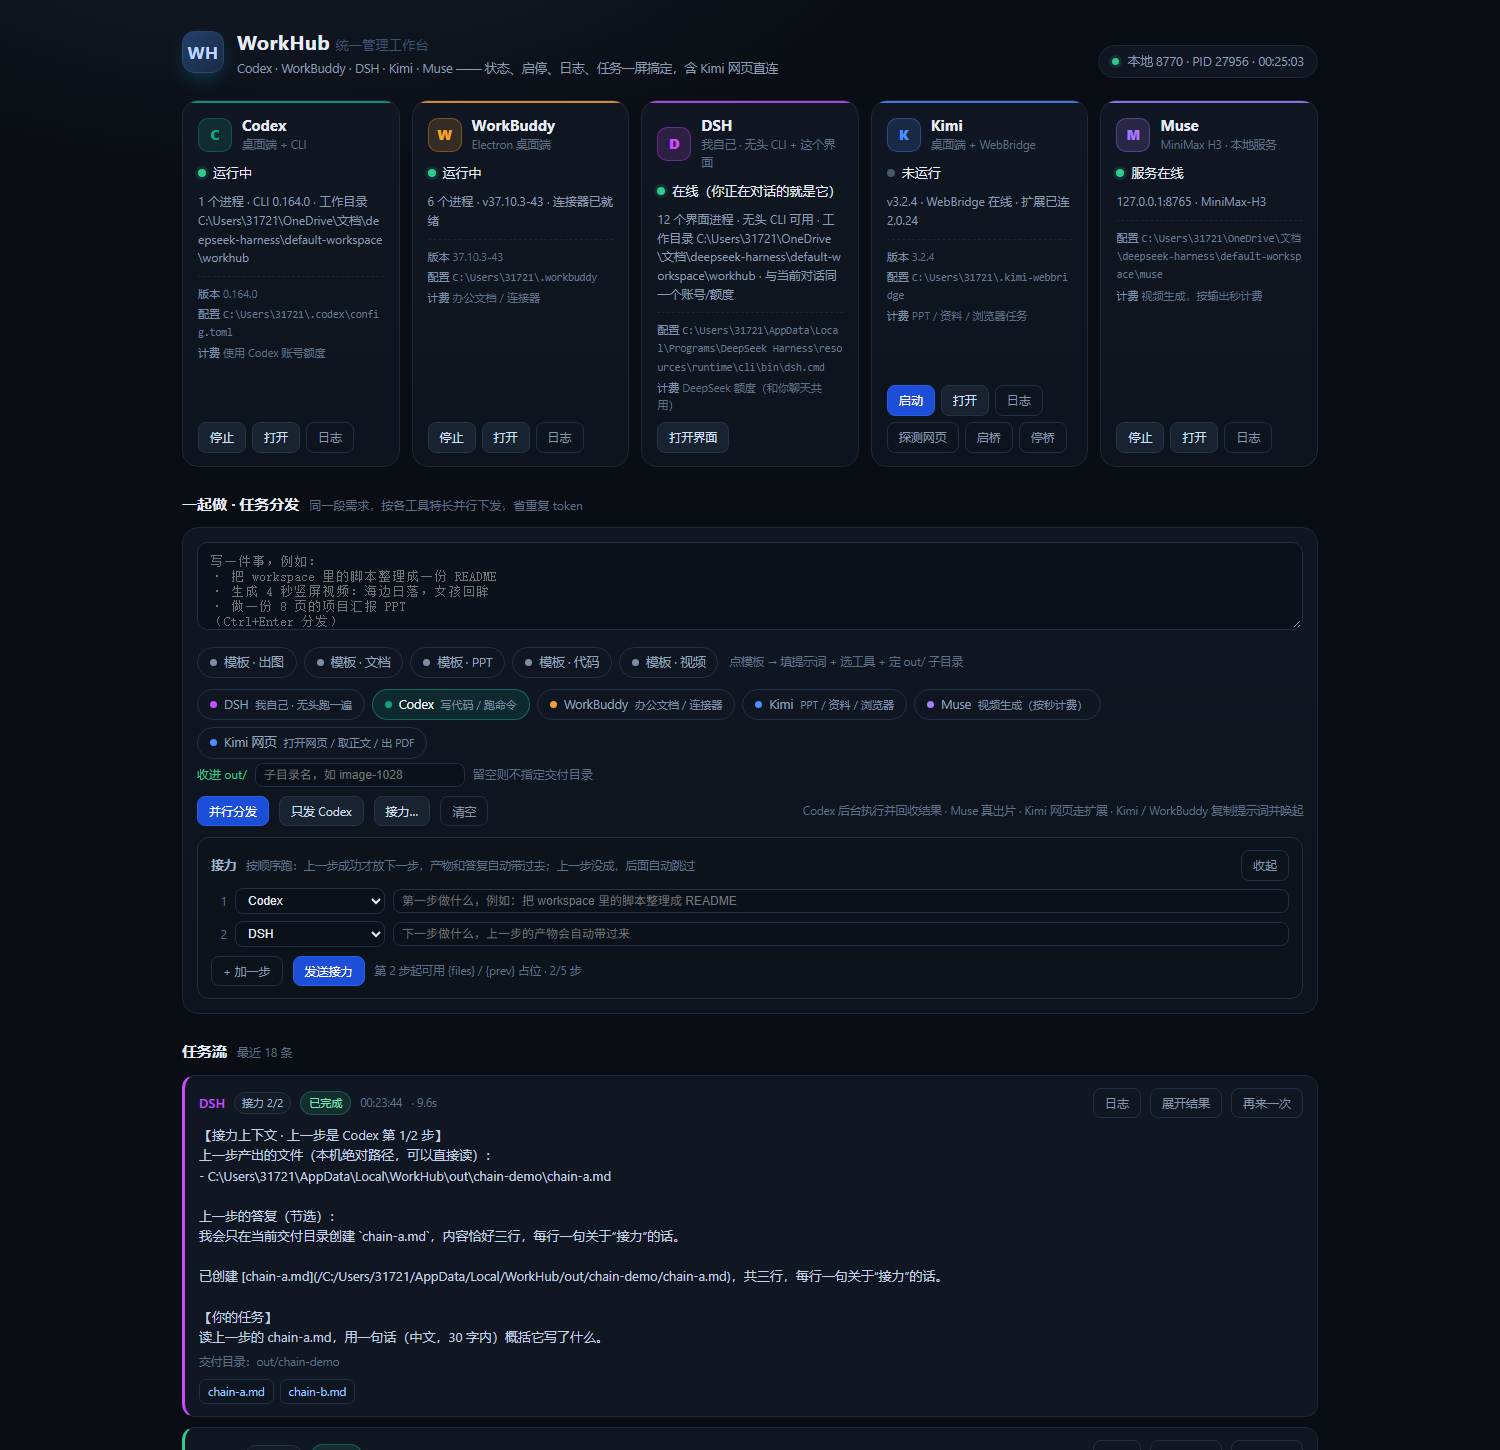
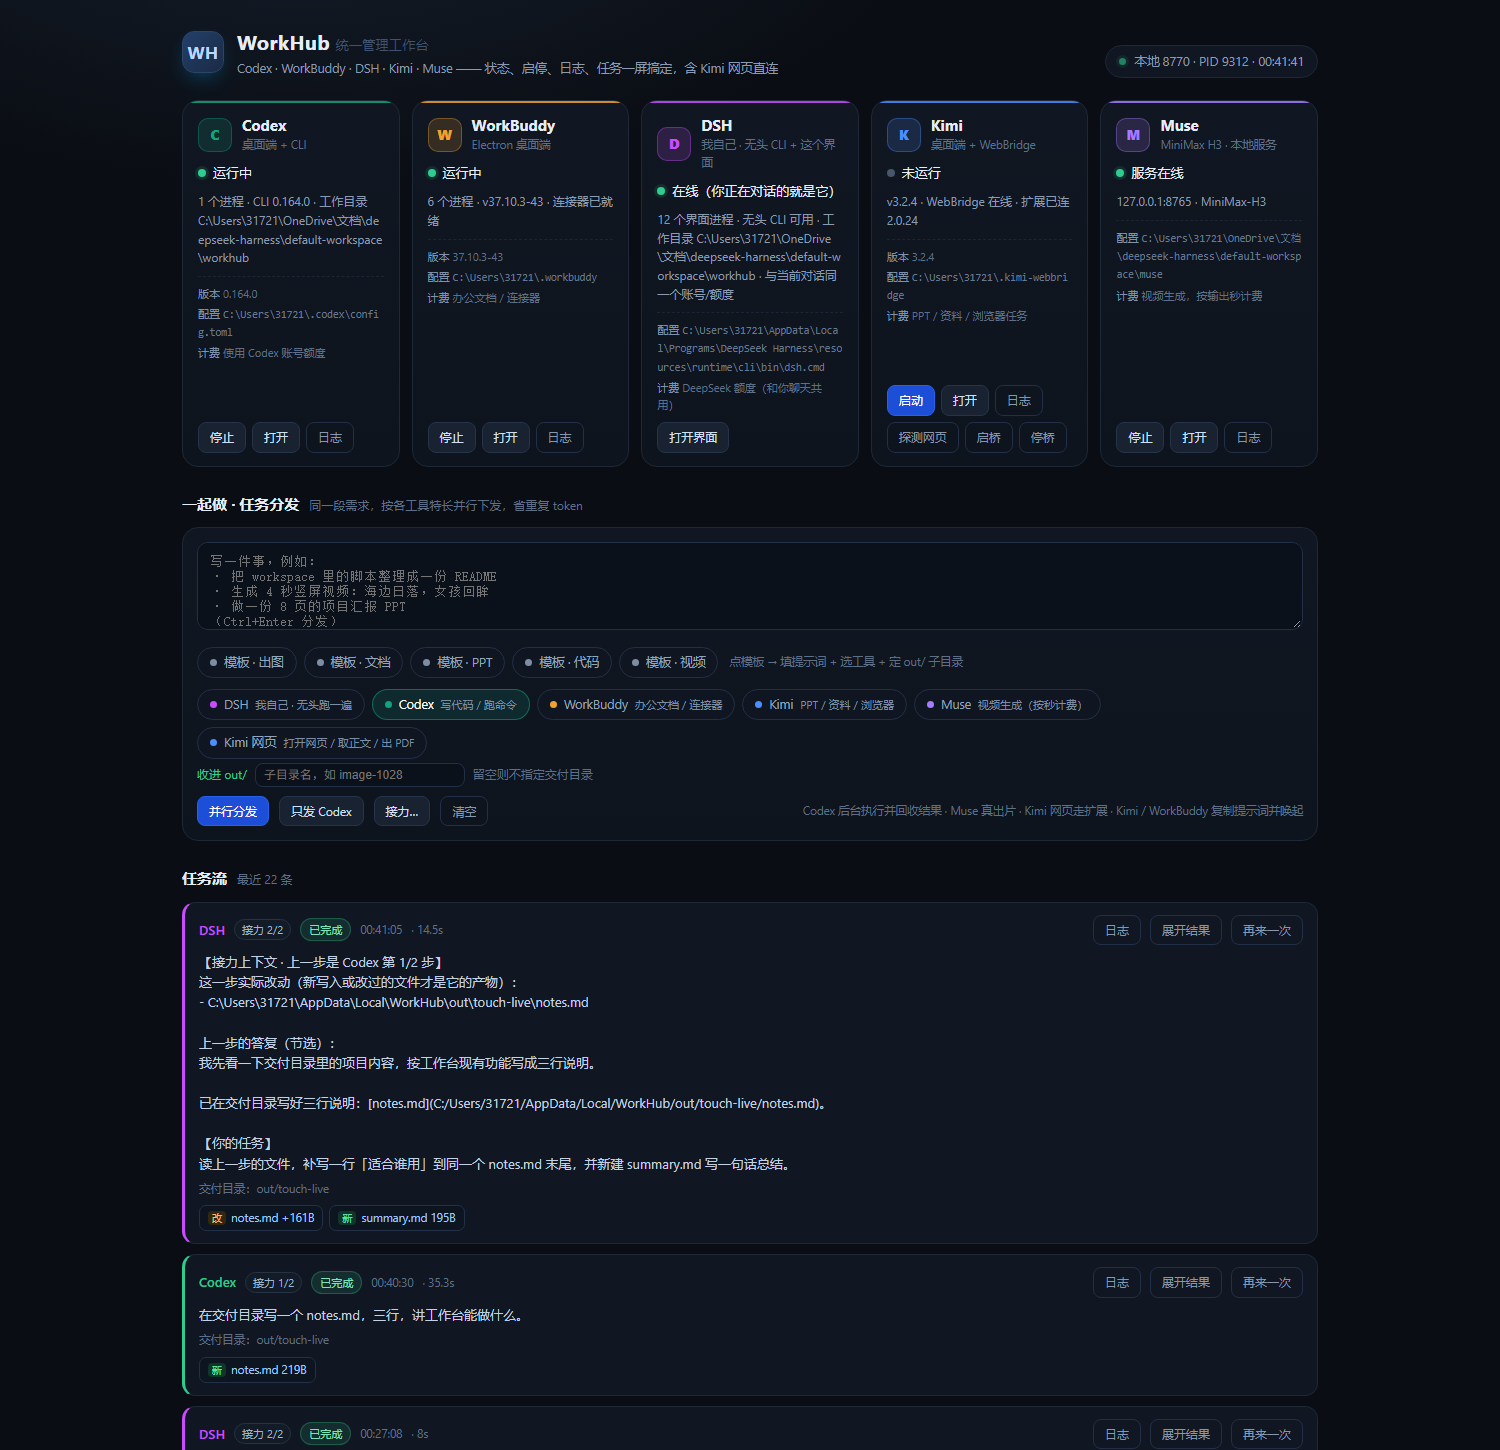
feat: 每一步的改动都看得见（v1.3.0）
任务开始与结束时各对交付目录做一次快照，取差集得到 touched：新增 / 修改（带字节增减）
/ 删除。任务卡上直接写清「这一步自己动了什么」，点一下就能打开产物。

接力传下去的东西也跟着变精确了：不再是「交付目录里都有什么」，而是「这一步自己的产物」，
同一目录里上几步留下的文件不会被误当成这一步的成果，{files} 同样只展开这些路径。

- jobs: snapshot_outdir / diff_snapshot / _job_outdir；_start_job 的 finally 里补 touched
- jobs: _chain_context 优先用 touched，chain_prompt 的 {files} 也用它
- web: 任务卡「新 / 改 / 删」胶囊（带 +161B 这样的增减），无 touched 时回退到文件清单
- tests: +2（真写文件验证 touched、snapshot/diff 单测），33 全绿
- docs: README / README.en 接力小节补「改动」、design.md 第 12 节、CHANGELOG [1.3.0]

实测（codex → dsh，outdir=touch-live）：
第 1 步 Codex 35.3s，新 notes.md 219B；
第 2 步 DSH 14.5s，改 notes.md +161B、新 summary.md 195B，提示词里带的正是这两个路径。

diff --git a/workhub/web/index.html b/workhub/web/index.html
@@ -133,6 +133,12 @@
     border:1px solid #223047;border-radius:7px;padding:3px 8px;
   }
   .files a:hover{border-color:#3d5b82;color:#cfe3ff}
+  .files .chip.touch{font-size:11.5px;color:#8a9bb0;background:#0d1521;border:1px solid #223047;
+    border-radius:7px;padding:3px 8px}
+  .tmark{font-size:10px;border-radius:4px;padding:0 4px;margin-right:5px}
+  .t-added{background:#123626;color:#57e3a5}
+  .t-changed{background:#33280f;color:#f3c168}
+  .t-removed{background:#3a1a1f;color:#ff8b9b}
   .grow{flex:1}
   .note{color:var(--dim);font-size:11.5px;margin-top:9px}
   .note b{color:#8aa0ba;font-weight:500}
@@ -295,6 +301,7 @@
 <script>
 const $ = (s, el=document) => el.querySelector(s);
 const esc = s => String(s ?? '').replace(/[&<>"']/g, c => ({'&':'&amp;','<':'&lt;','>':'&gt;','"':'&quot;',"'":'&#39;'}[c]));
+const fmtSize = n => n < 1024 ? `${n}B` : n < 1024*1024 ? `${(n/1024).toFixed(1)}K` : `${(n/1048576).toFixed(1)}M`;
 const TARGETS = ['dsh','codex','workbuddy','kimi','muse','kimiweb'];
 const LABEL = {codex:'Codex', workbuddy:'WorkBuddy', kimi:'Kimi', muse:'Muse', kimiweb:'Kimi 网页', dsh:'DSH'};
 const STATUS = {
@@ -455,6 +462,17 @@ function jobHtml(j){
   const outdir = j.outdir ? `<div class="jmuted" style="margin-top:6px">交付目录：out/${esc(j.outdir)}</div>` : '';
   const files = (j.files && j.files.length)
     ? `<div class="files">${j.files.map(f=>`<a href="/artifact?path=${encodeURIComponent(f)}" target="_blank" rel="noopener">${esc(f.split('/').pop())}</a>`).join('')}</div>` : '';
+  const MARK = {added:'新', changed:'改', removed:'删'};
+  const touched = (j.touched && j.touched.length)
+    ? `<div class="files">${j.touched.slice(0,24).map(c=>{
+        const name = c.path.split('/').pop();
+        const delta = c.change === 'changed' && typeof c.delta === 'number'
+          ? ` ${c.delta >= 0 ? '+' : ''}${c.delta}B` : (c.size ? ` ${fmtSize(c.size)}` : '');
+        const body = `<span class="tmark t-${c.change}">${MARK[c.change] || c.change}</span>${esc(name)}${esc(delta)}`;
+        return c.change === 'removed'
+          ? `<span class="chip touch">${body}</span>`
+          : `<a href="/artifact?path=${encodeURIComponent(c.path)}" target="_blank" rel="noopener">${body}</a>`;
+      }).join('')}${j.touched.length>24?`<span class="jmuted">…共 ${j.touched.length} 处改动</span>`:''}</div>` : '';
   const chain = j.chain_id
     ? `<span class="chainbadge" title="${esc(j.chain_title || '')}">接力 ${j.step}/${j.steps_total}</span>` : '';
   return `<div class="job" style="--c:${j.color||'#5b9dff'}">
@@ -472,7 +490,7 @@ function jobHtml(j){
     </div>
     <div class="jprompt">${esc(j.prompt)}</div>
     ${open?out:''} ${open?err:''} ${open?file:''}
-    ${outdir}${files}
+    ${outdir}${touched || files}
     ${mediaHtml}
     ${(j.note && !open)?`<div style="margin-top:6px">${note}</div>`:''}
   </div>`;

diff --git a/workhub/jobs.py b/workhub/jobs.py
@@ -88,7 +88,7 @@ def job_public(job: dict) -> dict:
     out = {k: job.get(k) for k in (
         "id", "target", "name", "color", "prompt", "status", "error", "output", "file",
         "media_url", "started", "ended", "elapsed", "note", "params", "outdir", "files",
-        "chain_id", "chain_title", "step", "steps_total", "depends_on",
+        "touched", "chain_id", "chain_title", "step", "steps_total", "depends_on",
     )}
     if out.get("elapsed") is None and job.get("status") in ("running", "queued"):
         out["elapsed"] = round(now_ts() - (job.get("started") or now_ts()), 1)
@@ -145,8 +145,8 @@ def job_log_path(job: dict) -> Path:
     return LOG_DIR / f"{job['id']}.log"
 
 
-def resolve_outdir(name: str) -> Path | None:
-    """把用户给的目录名收敛成 OUT_ROOT 下的安全子目录。"""
+def _safe_outdir(name: str) -> Path | None:
+    """把目录名收敛成 OUT_ROOT 下的安全子目录（不创建）。"""
     raw = (name or "").strip().replace("\\", "/").strip("/")
     if not raw:
         return None
@@ -158,12 +158,60 @@ def resolve_outdir(name: str) -> Path | None:
         path.resolve().relative_to(OUT_ROOT.resolve())
     except Exception:
         return None
+    return path
+
+
+def resolve_outdir(name: str) -> Path | None:
+    """把用户给的目录名收敛成 OUT_ROOT 下的安全子目录，并建好。"""
+    path = _safe_outdir(name)
+    if path is None:
+        return None
     try:
         path.mkdir(parents=True, exist_ok=True)
     except Exception:
         traceback.print_exc()
         return None
     return path
+
+
+def snapshot_outdir(outdir: Path) -> dict[str, tuple[int, float]]:
+    """记下某个交付目录里所有文件的大小与修改时间，用来对比一次任务改了什么。"""
+    snap: dict[str, tuple[int, float]] = {}
+    try:
+        for path in outdir.rglob("*"):
+            if not path.is_file():
+                continue
+            try:
+                st = path.stat()
+                rel = path.relative_to(OUT_ROOT).as_posix()
+            except (OSError, ValueError):
+                continue
+            snap[rel] = (st.st_size, st.st_mtime)
+    except OSError:
+        traceback.print_exc()
+    return snap
+
+
+def diff_snapshot(before: dict[str, tuple[int, float]],
+                  after: dict[str, tuple[int, float]]) -> list[dict]:
+    """两份快照的差异：added / changed（带字节增减）/ removed。"""
+    changes: list[dict] = []
+    for rel, (size, mtime) in sorted(after.items()):
+        old = before.get(rel)
+        if old is None:
+            changes.append({"path": rel, "change": "added", "size": size})
+        elif old[0] != size or old[1] != mtime:
+            changes.append({"path": rel, "change": "changed", "size": size, "delta": size - old[0]})
+    for rel in sorted(before):
+        if rel not in after:
+            changes.append({"path": rel, "change": "removed", "size": 0})
+    return changes
+
+
+def _job_outdir(job: dict) -> Path | None:
+    """任务用的交付目录（只算路径，不建目录、也不要求它已经存在）。"""
+    rel = job.get("outdir") or (job.get("params") or {}).get("outdir")
+    return _safe_outdir(rel) if rel else None
 
 
 def run_codex_job(job: dict) -> None:
@@ -631,11 +679,30 @@ JOB_RUNNERS = {
 }
 
 
+def _touched_lines(done: dict) -> list[str]:
+    """这次任务自己动了哪些文件（新增/修改/删除），比「目录里都有什么」更精确。"""
+    touched = done.get("touched") or []
+    if not touched:
+        return []
+    added = [c["path"] for c in touched if c.get("change") == "added"]
+    changed = [c["path"] for c in touched if c.get("change") == "changed"]
+    removed = [c["path"] for c in touched if c.get("change") == "removed"]
+    lines = ["这一步实际改动（新写入或改过的文件才是它的产物）："]
+    for rel in (added + changed)[:20]:
+        lines.append(f"- {OUT_ROOT / rel}")
+    if removed:
+        lines.append("- 删除了：" + "、".join(removed[:10]))
+    return lines
+
+
 def _chain_context(done: dict) -> str:
     """把上一步的产物与答复整理成交给下一步的上下文。"""
     lines: list[str] = []
+    own = _touched_lines(done)
     files = done.get("files") or []
-    if files:
+    if own:
+        lines.extend(own)
+    elif files:
         lines.append("上一步产出的文件（本机绝对路径，可以直接读）：")
         lines.extend(f"- {OUT_ROOT / rel}" for rel in files[:20])
         if len(files) > 20:
@@ -652,7 +719,9 @@ def chain_prompt(child: dict, done: dict) -> str:
     """下一步的提示词：默认把上一步的产物附在前面，也支持 {files} / {prev} 占位。"""
     base = child.get("ctx_prompt") or child.get("prompt") or ""
     if "{files}" in base or "{prev}" in base:
-        joined = "\n".join(str(OUT_ROOT / rel) for rel in (done.get("files") or []))
+        own = [c["path"] for c in (done.get("touched") or []) if c.get("change") != "removed"]
+        paths = own or (done.get("files") or [])
+        joined = "\n".join(str(OUT_ROOT / rel) for rel in paths)
         return base.replace("{files}", joined or "（上一步没有产出文件）").replace(
             "{prev}", (done.get("output") or "").strip()[:1200])
     head = (f"【接力上下文 · 上一步是 {done.get('name')} 第 {done.get('step')}/"
@@ -692,12 +761,21 @@ def _start_job(job: dict) -> dict:
         return job
 
     def wrapped() -> None:
+        run_dir = _job_outdir(job)
+        before = snapshot_outdir(run_dir) if run_dir is not None else None
         try:
             runner(job)
         except Exception as exc:  # noqa: BLE001
             traceback.print_exc()
             update_job(job, status="failed", error=f"{exc}", ended=now_ts())
         finally:
+            if before is not None:
+                try:
+                    after_dir = _job_outdir(job) or run_dir
+                    after = snapshot_outdir(after_dir) if after_dir is not None else {}
+                    update_job(job, touched=diff_snapshot(before, after))
+                except Exception:  # noqa: BLE001
+                    traceback.print_exc()
             try:
                 _advance_chain(job)
             except Exception:  # noqa: BLE001

diff --git a/tests/test_chain.py b/tests/test_chain.py
@@ -1,4 +1,5 @@
 """接力：上一步的产物交给下一步，失败就整条跳过。"""
+import shutil
 import threading
 import time
 import unittest
@@ -126,6 +127,67 @@ class ChainTest(unittest.TestCase):
 
         self.assertTrue(wait_for(lambda: jobs.get_job(made[1]["id"])["status"] == "skipped"))
         self.assertIn("人工接力", jobs.get_job(made[1]["id"])["error"])
+
+    def test_runner_changes_are_recorded_and_passed_on(self):
+        """真写文件：这一步的「改动」要能查出来，并交给下一步。"""
+        dir_path = OUT_ROOT / "chain-touch"
+        self.addCleanup(shutil.rmtree, dir_path, True)
+
+        def writer(job):
+            dir_path.mkdir(parents=True, exist_ok=True)
+            (dir_path / "a.md").write_text("草稿\n", encoding="utf-8")
+            jobs.update_job(job, status="succeeded", output="写了 a.md",
+                            files=["chain-touch/a.md"], ended=jobs.now_ts(), elapsed=0.1)
+
+        def rewriter(job):
+            (dir_path / "a.md").write_text("草稿\n第二行\n", encoding="utf-8")
+            (dir_path / "b.md").write_text("补充\n", encoding="utf-8")
+            jobs.update_job(job, status="succeeded", output="改了 a.md，加了 b.md",
+                            ended=jobs.now_ts(), elapsed=0.1)
+
+        jobs.JOB_RUNNERS["codex"] = writer
+        jobs.JOB_RUNNERS["dsh"] = rewriter
+        _, made = jobs.dispatch_chain(
+            [{"target": "codex", "prompt": "写草稿"},
+             {"target": "dsh", "prompt": "接着改"}], outdir="chain-touch")
+
+        self.assertTrue(wait_for(lambda: jobs.get_job(made[0]["id"])["status"] == "succeeded"))
+        self.assertTrue(wait_for(lambda: jobs.get_job(made[1]["id"])["status"] == "succeeded"))
+
+        first = jobs.get_job(made[0]["id"])
+        self.assertTrue(wait_for(lambda: bool(jobs.get_job(made[0]["id"]).get("touched"))))
+        first = jobs.get_job(made[0]["id"])
+        self.assertEqual([c["path"] for c in first["touched"]], ["chain-touch/a.md"])
+        self.assertEqual(first["touched"][0]["change"], "added")
+
+        second = jobs.get_job(made[1]["id"])
+        self.assertTrue(wait_for(lambda: bool(jobs.get_job(made[1]["id"]).get("touched"))))
+        second = jobs.get_job(made[1]["id"])
+        changes = {c["path"]: c["change"] for c in second["touched"]}
+        self.assertEqual(changes.get("chain-touch/a.md"), "changed")
+        self.assertEqual(changes.get("chain-touch/b.md"), "added")
+        # 第二步的提示词里带的是「这一步实际改动」，而不是整个目录
+        self.assertIn("这一步实际改动", second["prompt"])
+        self.assertIn(str(OUT_ROOT / "chain-touch/a.md"), second["prompt"])
+
+    def test_snapshot_diff_detects_add_change_remove(self):
+        path = OUT_ROOT / "snap-demo"
+        self.addCleanup(shutil.rmtree, path, True)
+        path.mkdir(parents=True, exist_ok=True)
+        (path / "keep.txt").write_text("v1", encoding="utf-8")
+        (path / "gone.txt").write_text("bye", encoding="utf-8")
+        before = jobs.snapshot_outdir(path)
+
+        (path / "keep.txt").write_text("v1 plus more", encoding="utf-8")
+        (path / "new.txt").write_text("hi", encoding="utf-8")
+        (path / "gone.txt").unlink()
+        after = jobs.snapshot_outdir(path)
+
+        changes = {c["path"]: c for c in jobs.diff_snapshot(before, after)}
+        self.assertEqual(changes["snap-demo/new.txt"]["change"], "added")
+        self.assertEqual(changes["snap-demo/keep.txt"]["change"], "changed")
+        self.assertEqual(changes["snap-demo/keep.txt"]["delta"], 10)
+        self.assertEqual(changes["snap-demo/gone.txt"]["change"], "removed")
 
     def test_cancel_waiting_step(self):
         def runner(job):

diff --git a/workhub/__init__.py b/workhub/__init__.py
@@ -3,5 +3,5 @@
 零第三方依赖，只监听回环地址，任务在本机后台执行、结果回到网页。
 """
 
-__version__ = "1.2.0"
+__version__ = "1.3.0"
 __all__ = ["__version__"]

diff --git a/docs/design.md b/docs/design.md
@@ -105,3 +105,15 @@ Windows 上直接 `PermissionError: [WinError 32] 另一个程序正在使用此
 所以落盘改成：各写各的 `<pid>.<thread>.tmp`，再用 `SAVE_LOCK` 加锁 `os.replace()`，
 遇到 `PermissionError` 退避重试 4 次。这个 bug 只在接力（多任务并发）之后才稳定复现。
 
+## 12. 为什么记「改动」而不是只列目录
+
+交付目录是多个步骤共用的，只列目录内容会出两个问题：第 2 步看到的「产物」里混着第 1 步留下的文件，
+而第 2 步提示词说的「上一步的产物」其实是第 1 步的东西；同一目录重复跑还会把旧文件当成新成果。
+
+所以任务开始前记一份快照（相对 `out/` 的路径 → 大小 + mtime），结束时再记一份，取差集得到
+`touched`：`added` / `changed`（带字节增减）/ `removed`。传下去的就是这份改动，`{files}` 也用它。
+
+代价是一次任务要对交付目录做两次 `rglob`——目录通常是几个到几十个文件，可以忽略；
+换来的是「这一步到底做了什么」不再需要人靠时间戳猜。
+
+

diff --git a/README.md b/README.md
@@ -87,6 +87,15 @@ Windows 想双击启动：`scripts\workhub.cmd`（前台带日志）或 `scripts
   是人工接力（产物在应用里），提交时就会被拒绝，不会让你等到第 3 步才发现断链；
 - 任务卡上有「接力 2/3」徽章，等着的步骤显示「等上一步」，跳过的显示「已跳过」。
 
+每一步结束时会对比交付目录的前后快照，任务卡上写清**这一步自己动了什么**：
+
+```
+新 notes.md 219B          改 notes.md +161B      新 summary.md 195B      删 draft.md
+```
+
+传下去的也是这些「这一步的产物」，而不是整个目录——同一个目录里上几步留下的文件不会被误当成
+这一步的成果，`{files}` 同样只展开这些路径。（没有交付目录的任务只显示目录里的文件清单。）
+
 ### 几个细节
 
 - **交付目录**：勾了 Codex / DSH 并填了 `out/` 子目录时，子进程的**工作目录就是该目录**，

diff --git a/README.en.md b/README.en.md
@@ -73,6 +73,16 @@ Hit **接力…** and lay out a 2–5 step chain:
   app and WorkBuddy are manual hand-offs, and are rejected up front instead of failing mid-chain;
 - cards show a `接力 2/3` badge, waiting steps read *waiting*, skipped ones read *skipped*.
 
+When a step finishes, the delivery directory is compared against the snapshot taken before it started,
+so the card says what **this step** actually did:
+
+```
+new notes.md 219B        changed notes.md +161B        new summary.md 195B        deleted draft.md
+```
+
+Those — not the whole directory — are what travels to the next step: leftovers from earlier steps in the
+same folder are not mistaken for this step's product, and `{files}` expands to exactly these paths.
+
 ### Delivery directory
 
 When Codex or DSH gets an `out/` subdirectory, the child process **starts with that directory as its cwd**

diff --git a/CHANGELOG.md b/CHANGELOG.md
@@ -7,6 +7,17 @@
 ### Planned
 - WorkBuddy 的连接器任务（等官方放开本地接口）。
 
+## [1.3.0] - 2026-10-29
+
+### Added
+- **每一步的改动看得见**：任务开始与结束时各对交付目录做一次快照，任务卡上写清
+  「新 / 改（带字节增减）/ 删」了哪些文件，点一下就能打开产物。
+- 接力传下去的改成**这一步自己的产物**（不再把同一目录里上几步留下的文件一并塞过去），
+  `{files}` 同样只展开这些路径。
+
+### Changed
+- `/api/job` 与 `/api/state` 的任务对象新增 `touched` 字段（`[{path, change, size, delta}]`）。
+
 ## [1.2.0] - 2026-10-29
 
 ### Added
